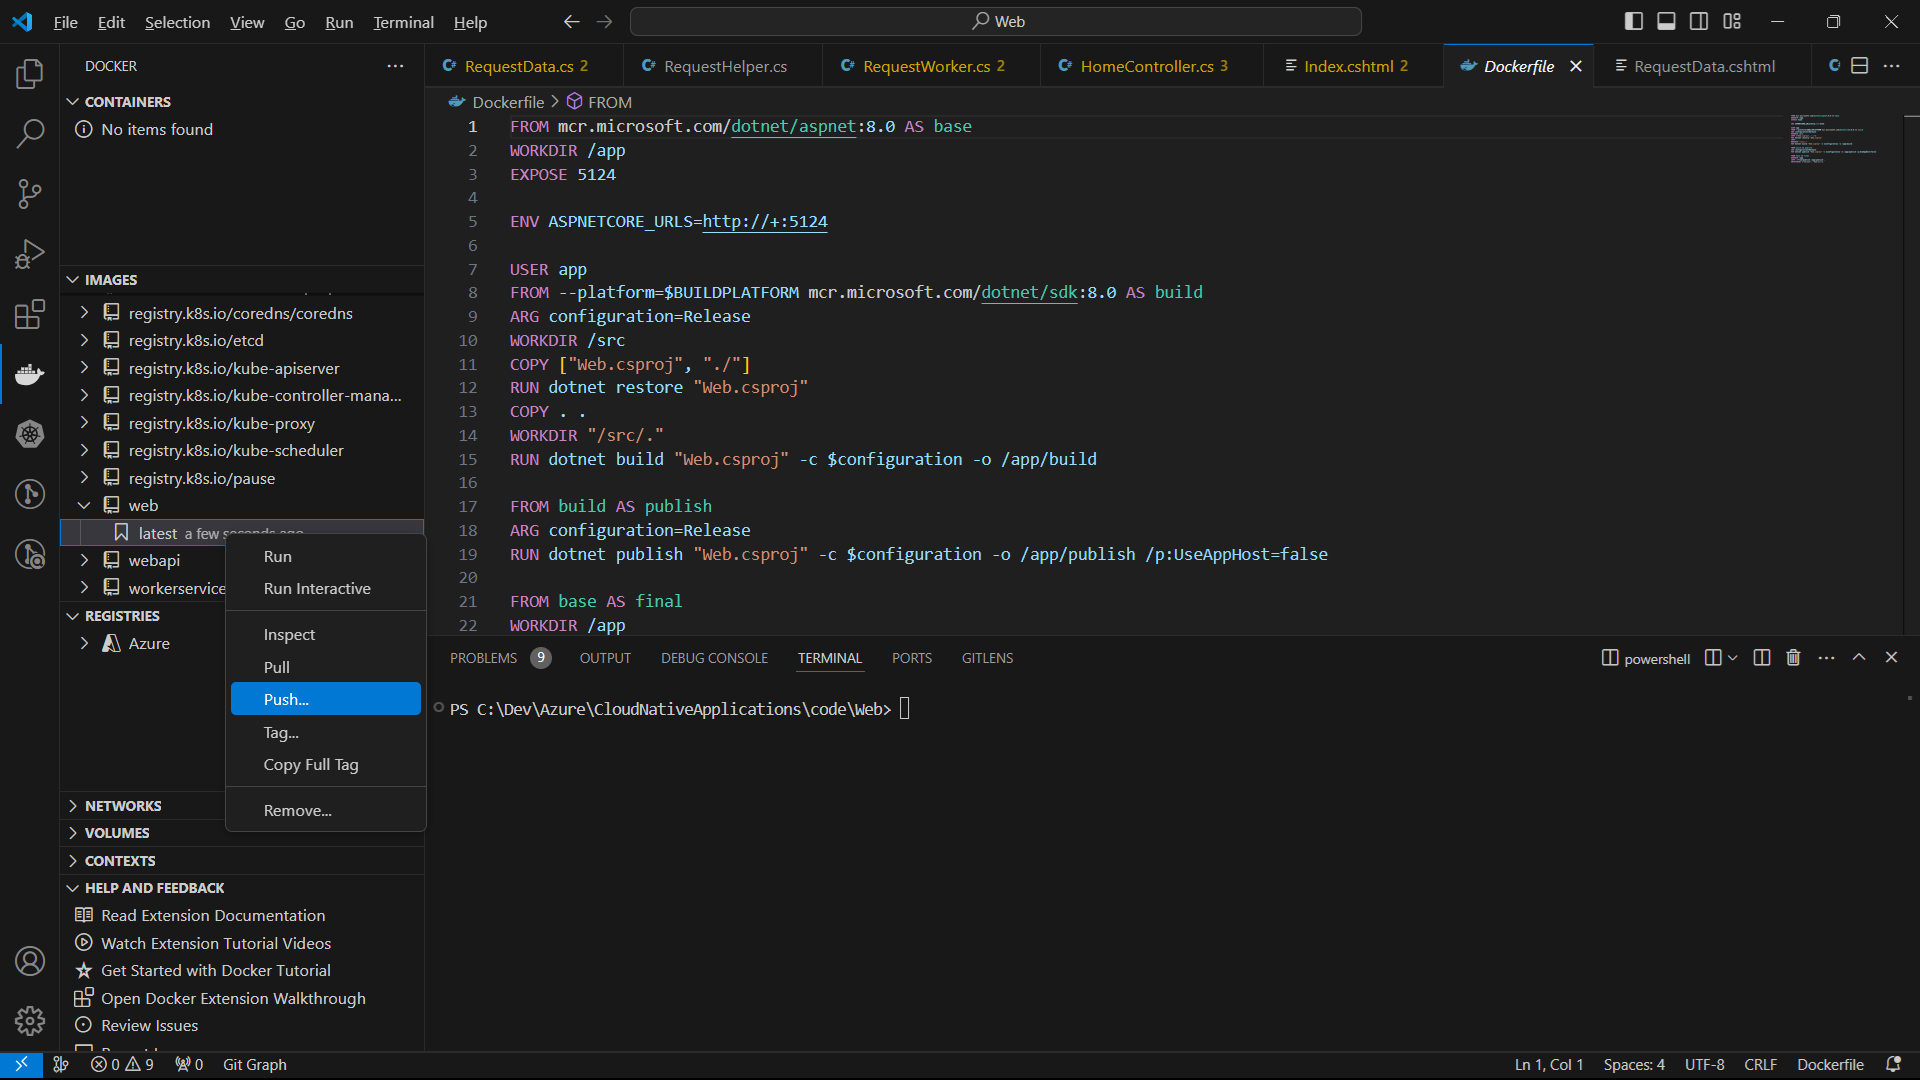
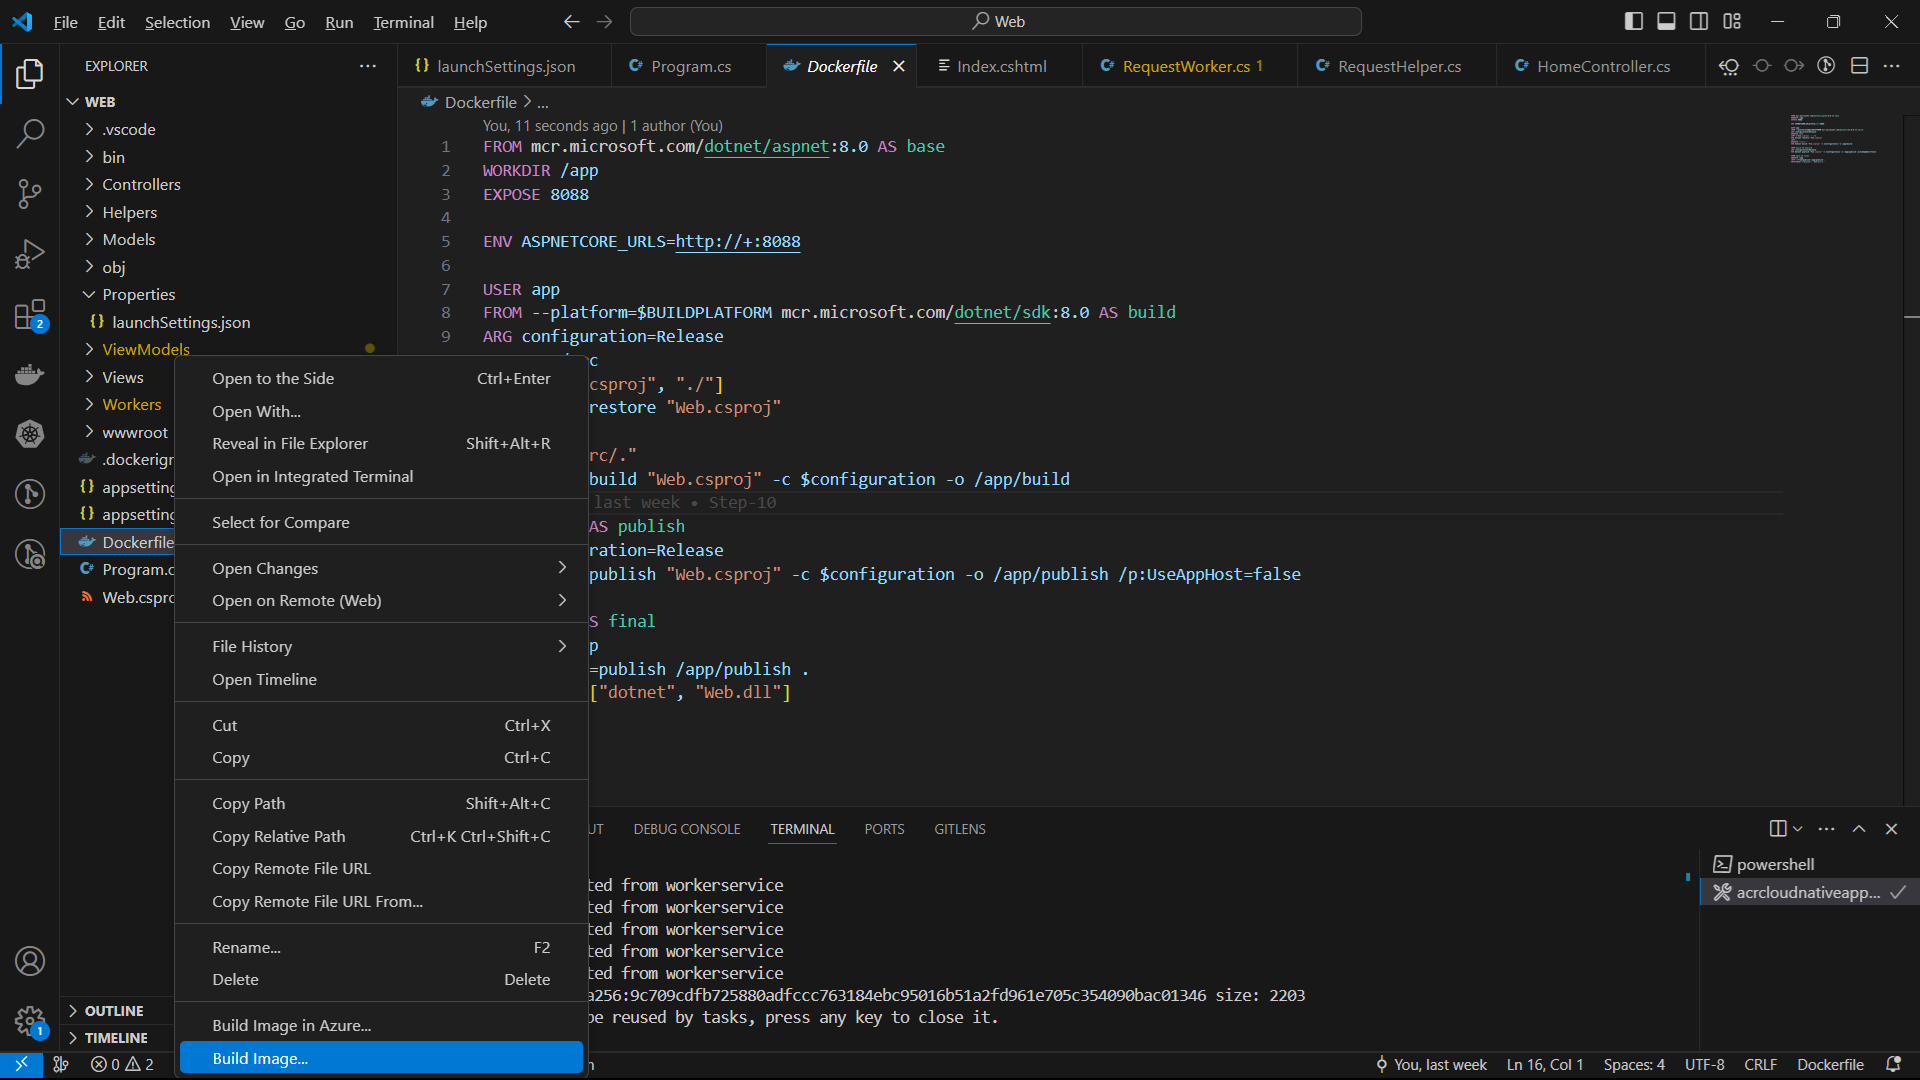
Step 11 and 12, previous steps refactoring

diff --git a/code/Web/Program.cs b/code/Web/Program.cs
@@ -3,18 +3,15 @@ using Web.Workers;
 
 var builder = WebApplication.CreateBuilder(args);
 
-// Add services to the container.
 builder.Services.AddControllersWithViews();
 builder.Services.AddSingleton<RequestHelper>();
 builder.Services.AddHostedService<RequestWorker>();
 
 var app = builder.Build();
 
-// Configure the HTTP request pipeline.
 if (!app.Environment.IsDevelopment())
 {
     app.UseExceptionHandler("/Home/Error");
-    // The default HSTS value is 30 days. You may want to change this for production scenarios, see https://aka.ms/aspnetcore-hsts.
     app.UseHsts();
 }
 

diff --git a/code/Web/Controllers/HomeController.cs b/code/Web/Controllers/HomeController.cs
@@ -10,9 +10,11 @@ public class HomeController : Controller
     private readonly RequestHelper _requestHelper;
     private readonly ILogger<HomeController> _logger;
 
-    public HomeController(ILogger<HomeController> logger)
+    public HomeController(
+        ILogger<HomeController> logger, RequestHelper requestHelper)
     {
         _logger = logger;
+        _requestHelper = requestHelper;
     }
 
     public IActionResult Index()

diff --git a/steps/step-10/README.md b/steps/step-10/README.md
@@ -8,7 +8,11 @@
 
 ![creating mvc app](sshot-10-1.png)
 
-2. The web application should fetch and display responses from the load-balanced WebApi on a webpage. Open the mvc Web project in Visual Studio Code, add a 'ViewModels' folder, and create a C# source file inside it for the following class:
+2. Edit the launchSettings.json file to update the web API application's port to `8088`:
+
+![changing application port](sshot-10-2.png)
+
+3. The web application should fetch and display responses from the load-balanced WebApi on a webpage. Open the mvc Web project in Visual Studio Code, add a 'ViewModels' folder, and create a C# source file inside it for the following class:
 
 ```csharp
 using System.Collections.Generic;
@@ -35,13 +39,13 @@ namespace Web.ViewModels
 }
 ```
 
-![adding the RequestData model](sshot-10-2.png)
+![adding the RequestData model](sshot-10-3.png)
 
-3. Because you need to request the data from the WebApi, add the RestSharp NuGet package to the project using the `dotnet add package RestSharp` command in Terminal:
+4. Because you need to request the data from the WebApi, add the RestSharp NuGet package to the project using the `dotnet add package RestSharp` command in Terminal:
 
-![adding RestSharp NuGet package](sshot-10-3.png)
+![adding RestSharp NuGet package](sshot-10-4.png)
 
-4. Add a 'Helpers' folder and create a C# source file for the following class:
+5. Add a 'Helpers' folder and create a C# source file for the following class:
 
 ```csharp
 using System.Collections.Generic;
@@ -89,9 +93,9 @@ namespace Web.Helpers
 ```
 This class stores all WebApi responses in memory and converts them into a dataset for webpage display.
 
-![adding the RequestHelper class](sshot-10-4.png)
+![adding the RequestHelper class](sshot-10-5.png)
 
-5. Add a Worker Service to your ASP.NET Core MVC project to make repeated calls to the WebApi. Inside a new 'Workers' folder, create a C# source file containing the specified class:
+6. Add a Worker Service to your ASP.NET Core MVC project to make repeated calls to the WebApi. Inside a new 'Workers' folder, create a C# source file containing the specified class:
 
 ```csharp
 using System;
@@ -146,16 +150,16 @@ namespace Web.Workers
 
 The background worker will execute every 100 milliseconds to retrieve responses from the WebApi.
 
-![adding the RequestWorker class](sshot-10-5.png)
+![adding the RequestWorker class](sshot-10-6.png)
 
-6. Register these classes in the dependency injection container to integrate all components:
+7. Register these classes in the dependency injection container to integrate all components:
 
 ```csharp
 builder.Services.AddSingleton<RequestHelper>();
 builder.Services.AddHostedService<RequestWorker>();
 ```
 
-7. Modify the HomeController to include only a Get method that calls the RequestHelper:
+8. Modify the HomeController to include only a Get method that calls the RequestHelper:
 
 ```csharp
 using Microsoft.AspNetCore.Mvc;
@@ -192,9 +196,9 @@ namespace Web.Controllers
 }
 ```
 
-![changes to homecontroller](sshot-10-6.png)
+![changes to homecontroller](sshot-10-7.png)
 
-8. Update the views to display the data accordingly:
+9. Update the views to display the data accordingly:
 
 **~/Views/Home/Index.cshtml**
 
@@ -233,7 +237,7 @@ namespace Web.Controllers
 }
 ```
 
-**~/Views/Home/RequestData.cshtml**
+**~/Views/Home/_RequestData.cshtml**
 
 ```csharp
 @model Web.ViewModels.RequestData
@@ -261,23 +265,23 @@ namespace Web.Controllers
 </table>
 ```
 
-![adding the views](sshot-10-7.png)
+![adding the views](sshot-10-8.png)
 
-9. Use the command palette to create a Dockerfile for an ASP.NET Core application on Linux:
+10. Use the command palette to create a Dockerfile for an ASP.NET Core application on Linux:
 
-![adding dockerfile](sshot-10-8.png)
+![adding dockerfile](sshot-10-9.png)
 
-10. Build the Dockerfile and push the image to your Azure Container Registry:
+11. Build the Dockerfile and push the image to your Azure Container Registry:
 
-![building an image](sshot-10-9.png)
+![building an image](sshot-10-10.png)
 
-![pushing image to acr](sshot-10-10.png)
+![pushing image to acr](sshot-10-11.png)
 
-11. Create two new YAML files for deploying your web application: one for the deployment and another for the service exposing it to the Kubernetes internal HTTP network. Apply these YAML files using the command palette:
+12. Create two new YAML files for deploying your web application: one for the deployment and another for the service exposing it to the Kubernetes internal HTTP network. Apply these YAML files using the command palette:
 
 **deployment-web.yml**
 
-```csharp
+```yaml
 apiVersion: apps/v1
 kind: Deployment
 metadata:
@@ -300,12 +304,12 @@ spec:
             memory: "128Mi"
             cpu: "500m"
         ports:
-        - containerPort: 80
+        - containerPort: 8088
 ```
 
 **service-web.yml**
 
-```csharp
+```yaml
 apiVersion: v1
 kind: Service
 metadata:
@@ -315,12 +319,11 @@ spec:
     app: web
   ports:
   - port: 80
-    targetPort: 80
+    targetPort: 8088
 ```
 
-12. Check the Kubernetes cluster. You should see a web deployment with 1 pod, a webapi deployment with 3 pods, and a workerservice deployment with 1 pod running:
+13. Check the Kubernetes cluster. You should see a web deployment with 1 pod, a webapi deployment with 3 pods, and a workerservice deployment with 1 pod running:
 
-![web deployed to Kubernetes](sshot-10-11.png)
-
+![web deployed to Kubernetes](sshot-10-12.png)
 
 [Previous step](../step-09/README.md) - [Next step](../step-11/README.md)

diff --git a/steps/step-12/README.md b/steps/step-12/README.md
@@ -1,49 +1,87 @@
 # Cloud Native Applications
 
-[Previous step](../../README.md) - [Next step](../step-02/README.md)
+[Previous step](../step-11/README.md)
 
-## Step 1 - Connect Visual Studio Code to your Azure Subscription
+## Step 12 - Adding an NGINX ingress controller
 
-### Login to the Azure CLI
+With knowledge of the resource group holding AKS networking resources, proceed to install the NGINX ingress extension on your Kubernetes cluster.
 
-Open a terminal window, for example inside Visual Studio Code and use the following command to login to Azure:
+1. Installing the NGINX ingress extension can be performed manually, but you can also use a predefined deploy script.
 
-```
-az login
-```
-
-If you have multiple subscriptions with your Azure account use the following command to list all your subscriptions:
+[Find more information about deploying the NGINX ingress extension](https://kubernetes.github.io/ingress-nginx/deploy/)
 
 ```
-az account list -o table
+kubectl apply -f https://raw.githubusercontent.com/kubernetes/ingress-nginx/controller-v1.4.0/deploy/static/provider/cloud/deploy.yaml
 ```
 
-Find the correct SubscriptionId and activate it using the following command:
+The script created a new namespace and deployed the necessary resources within it.
+
+![locating the nginx](sshot-12-1.png)
+
+2. Run the commands below to check if all pods are ready and to find the EXTERNAL-IP of the ingress load balancer:
 
 ```
-az account set -s <SubscriptionId>
+kubectl get pods --namespace=ingress-nginx
 ```
 
-### Login to Azure in Visual Studio Code
+```
+kubectl --namespace ingress-nginx get services -o wide
+```
 
-From Visual Studio, use the Ctrl+Shift+P keyboard shortcut to open the Command Palette and find Azure: Sign In to link your Visual Studio code instance with your azure login:
+![verifying nginx setup](sshot-12-2.png)
 
-![Azure: Sign In from Visual Studio Code](sshot-2.png)
+3. Checking the resource group with our AKS networking resources reveals a new PublicIP resource matching the IP address of our ingress load balancer:
 
-Your browser will open and you need to login using the Microsoft account linked to your Azure subscription:
+![verifying external ip address](sshot-12-3.png)
 
-![Microsoft Account](sshot-3.png)
+4. Register a custom DNS name for this IP address using the commands below:
 
-If your login was successful, you should be presented with a success screen:
+```
+az resource show --query id --resource-type Microsoft.Network/publicIPAddresses -n <public-ip resource name> -g <your kubernetes networking resource group>
+```
 
-![Azure: Sign In from Visual Studio Code](sshot-4.png)
+```
+az resource show --query id --resource-type Microsoft.Network/publicIPAddresses -n aks-cloud-native-app-we-public-ip -g MC_rg-cloud-native-app-west-europe_aks-cloud-native-app-we_westeurope
+```
 
-Use the Command Palette in Visual Studio once more to select the active subscription:
+![locating the ip resource id](sshot-12-4.png)
 
-![Azure: Sign In from Visual Studio Code](sshot-5.png)
+5. Copy the response from the previous script for use in the next script:
 
-Inside the Visual Studio Code IDE, you can have multiple subscriptions active. Use the checkboxes to make your selections:
+```
+az network public-ip update --ids "<copied-response>" --dns-name <dns-name>
+```
 
-![Azure: Sign In from Visual Studio Code](sshot-6.png)
+```
+az network public-ip update --ids "/subscriptions/a6e54b7d-ad5a-4f68-9219-3e976fbefc91/resourceGroups/mc_rg-cloud-native-app-west-europe_aks-cloud-native-app-we_westeurope/providers/Microsoft.Network/publicIPAddresses/kubernetes-public-ip" --dns-name cloud-native-applications
+```
 
-[Previous step](../../README.md) - [Next step](../step-02/README.md)
+6. Visit your custom DNS to verify if the NGINX ingress controller is operational. A 404 NOT FOUND response indicates it's working correctly!
+
+![verifying dns](sshot-12-5.png)
+
+7. Set your custom Kubernetes namespace as the default and deploy a new ingress controller to route traffic from the NGINX load balancer to your internal services:
+
+```yaml
+apiVersion: networking.k8s.io/v1
+kind: Ingress
+metadata:
+  name: web-ingress
+  annotations:
+    nginx.ingress.kubernetes.io/rewrite-target: /$1
+spec:
+  ingressClassName: nginx
+  rules:
+  - host: cloud-native-applications.westeurope.cloudapp.azure.com
+    http:
+      paths:
+      - path: /(.*)
+        pathType: Prefix
+        backend:
+          service:
+            name: web
+            port:
+              number: 80
+```
+
+[Previous step](../step-11/README.md)

diff --git a/steps/step-11/README.md b/steps/step-11/README.md
@@ -1,49 +1,29 @@
 # Cloud Native Applications
 
-[Previous step](../../README.md) - [Next step](../step-02/README.md)
+[Previous step](../step-10/README.md) - [Next step](../step-12/README.md)
 
-## Step 1 - Connect Visual Studio Code to your Azure Subscription
+## Step 11 - Locating the recource group that bundles all Kubernetes network resources
 
-### Login to the Azure CLI
+The web application is currently exposed only within the Kubernetes cluster. To make it accessible externally, additional configurations are required in Kubernetes and Azure.
 
-Open a terminal window, for example inside Visual Studio Code and use the following command to login to Azure:
-
-```
-az login
-```
-
-If you have multiple subscriptions with your Azure account use the following command to list all your subscriptions:
+1. To find the name of the resource group containing all Kubernetes networking components created by Azure, use the following command:
 
 ```
-az account list -o table
+az aks show --resource-group <your resource group> --name <your aks cluster> --query nodeResourceGroup -o tsv
 ```
 
-Find the correct SubscriptionId and activate it using the following command:
-
 ```
-az account set -s <SubscriptionId>
+az aks show --resource-group rg-cloud-native-app-west-europe --name aks-cloud-native-app-we --query nodeResourceGroup -o tsv
 ```
 
-### Login to Azure in Visual Studio Code
+In this instance, the command returns the following resource group name:
 
-From Visual Studio, use the Ctrl+Shift+P keyboard shortcut to open the Command Palette and find Azure: Sign In to link your Visual Studio code instance with your azure login:
+```
+MC_rg-cloud-native-app-west-europe_aks-cloud-native-app-we_westeurope
+```
 
-![Azure: Sign In from Visual Studio Code](sshot-2.png)
+2. Locate the resource group and its resources in the Azure Portal using the search feature:
 
-Your browser will open and you need to login using the Microsoft account linked to your Azure subscription:
+![locating the network group](sshot-11-1.png)
 
-![Microsoft Account](sshot-3.png)
-
-If your login was successful, you should be presented with a success screen:
-
-![Azure: Sign In from Visual Studio Code](sshot-4.png)
-
-Use the Command Palette in Visual Studio once more to select the active subscription:
-
-![Azure: Sign In from Visual Studio Code](sshot-5.png)
-
-Inside the Visual Studio Code IDE, you can have multiple subscriptions active. Use the checkboxes to make your selections:
-
-![Azure: Sign In from Visual Studio Code](sshot-6.png)
-
-[Previous step](../../README.md) - [Next step](../step-02/README.md)
+[Previous step](../step-10/README.md) - [Next step](../step-12/README.md)

diff --git a/steps/step-07/README.md b/steps/step-07/README.md
@@ -12,7 +12,7 @@
 
 3. Rename WeatherForecast to Status and update the API to return only the current machine name:
 
-```c#
+```csharp
 var builder = WebApplication.CreateBuilder(args);
 
 builder.Services.AddEndpointsApiExplorer();
